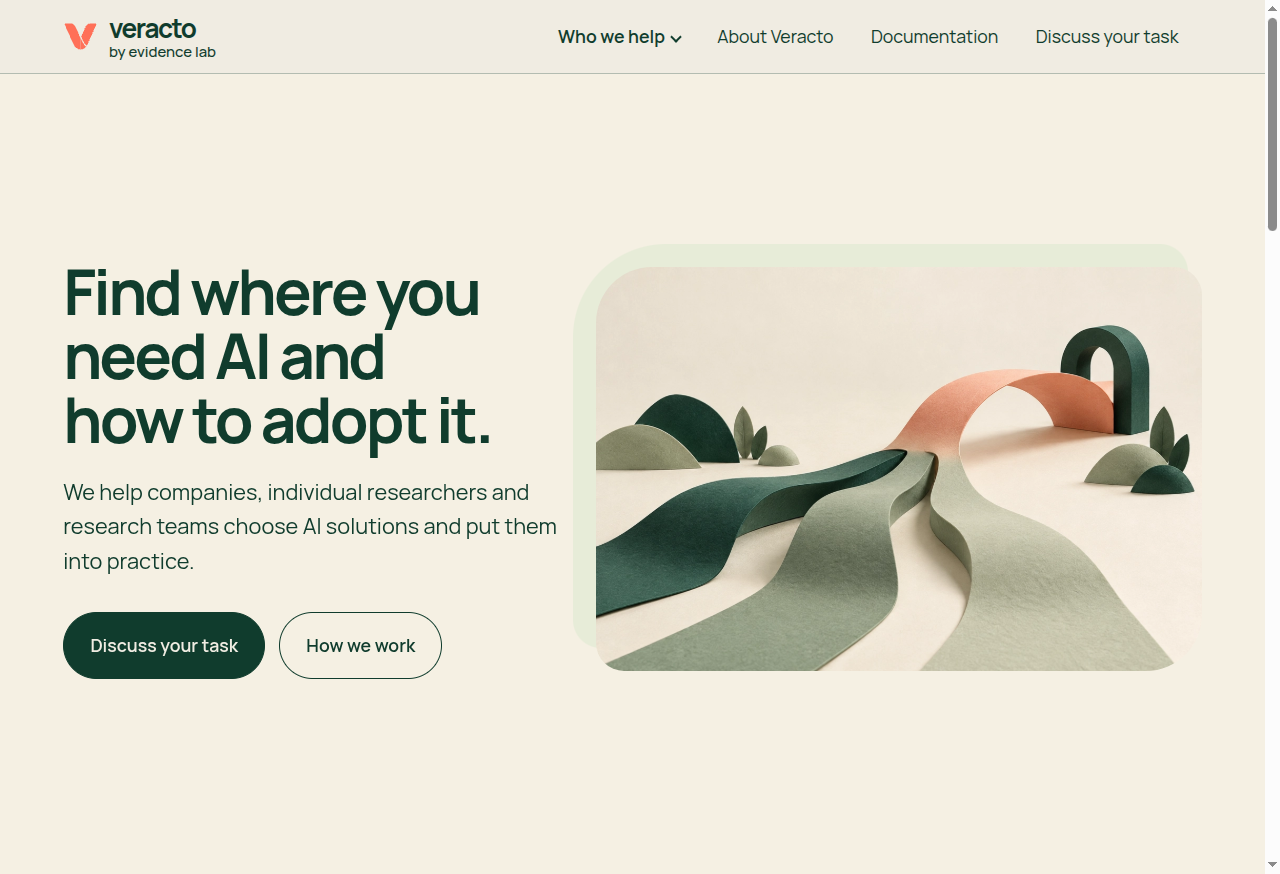
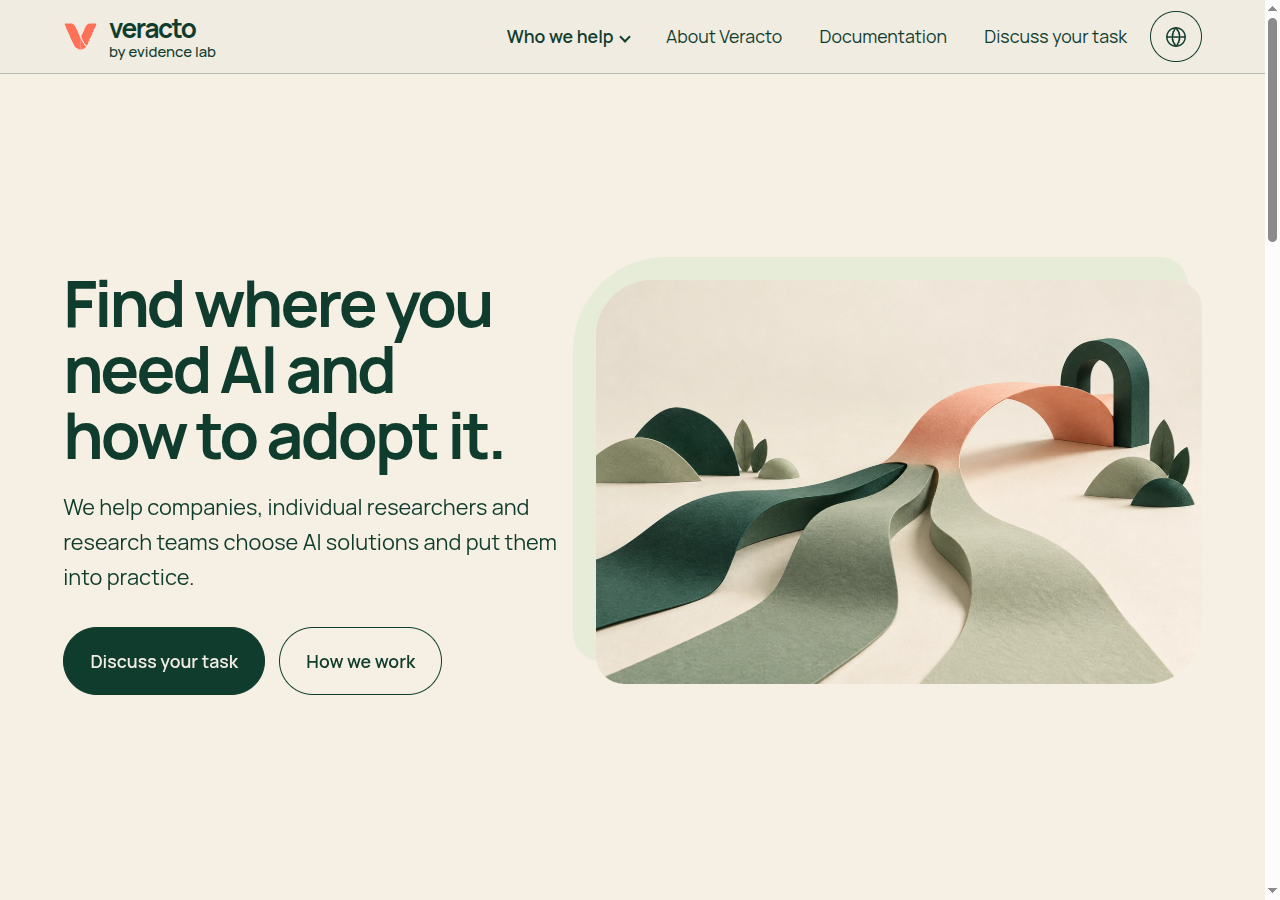
Record public bilingual preview verification

diff --git a/docs/verification.md b/docs/verification.md
@@ -4,6 +4,6 @@
 - Astro/TypeScript diagnostics, ESLint and static production build pass.
 - Twenty-eight main pages/redirects and their referenced local assets pass static verification with English/Russian language expectations.
 - Public preview packaging rewrites deployment paths and disables analytics controls in generated HTML; original application source remains unchanged.
-- Browser checks cover both locales and the language switch at phone/desktop widths before final acceptance.
+- Public GitHub Pages was checked in both locales at phone/desktop widths (402/1280 pixels). The language switch works, with no horizontal overflow or broken images. No analytics requests were made.
 
 The public build lockfile includes compatible dependency fixes from the initial preparation. Moderate development-tool advisories remain; no complete security audit is claimed. Original private source and production services are independent of this preview.
